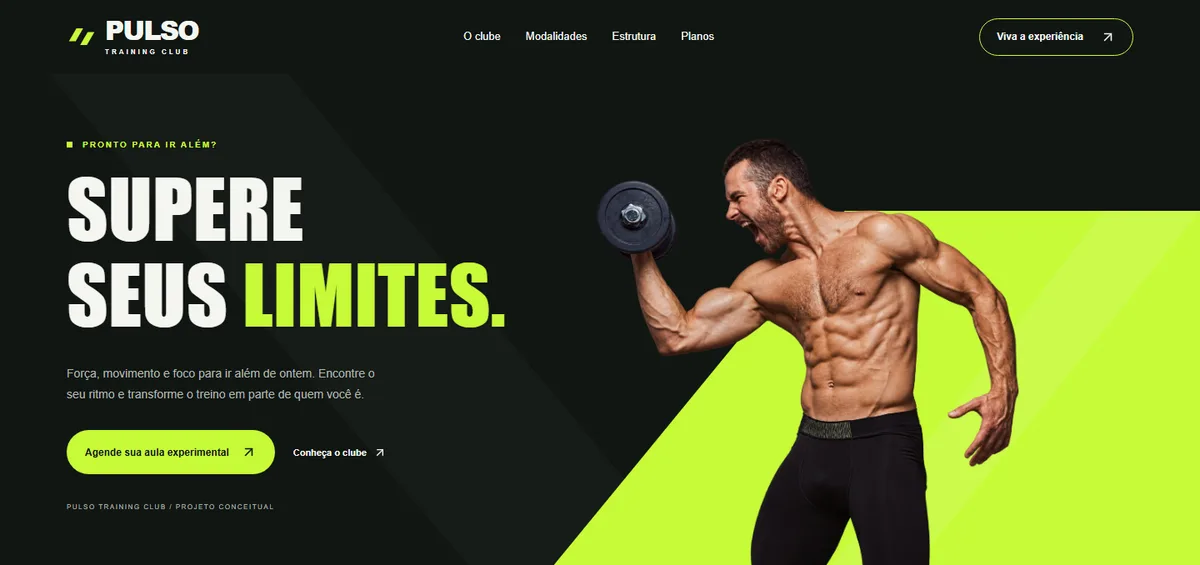
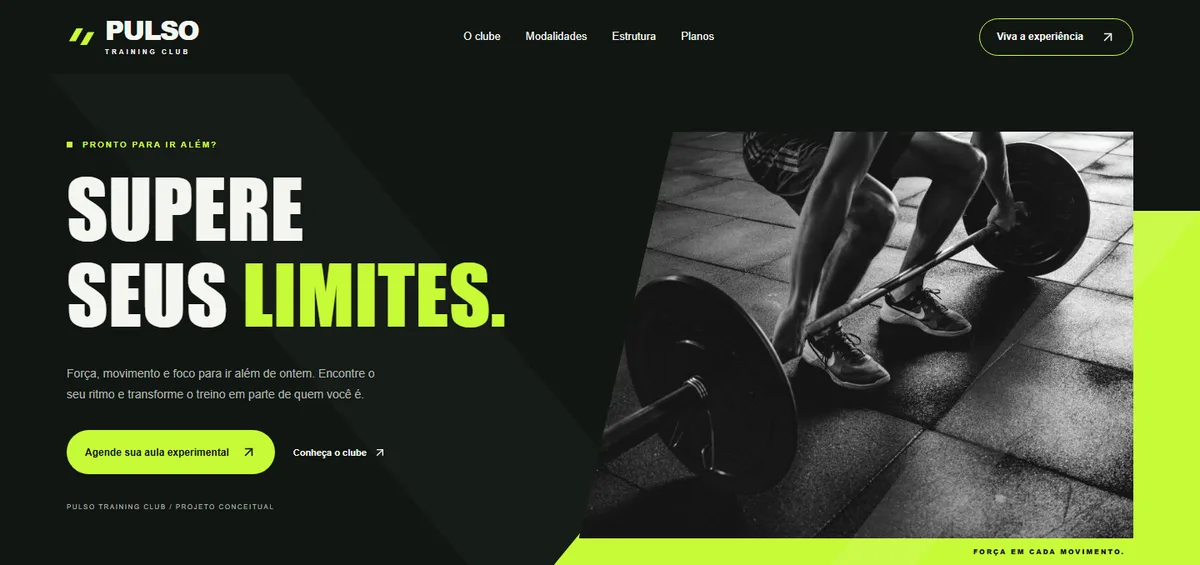
melhorias

Changed region(s): [[0.4625, 0.2106, 0.9558, 1.0]]

diff --git a/src/app/globals.css b/src/app/globals.css
@@ -88,8 +88,8 @@ h3 { font-size: 18px; letter-spacing: -.45px; font-weight: 550; }
 .portfolio-grid { display: grid; grid-template-columns: repeat(3, minmax(0, 1fr)); gap: 28px; }
 .portfolio-card { display: flex; flex-direction: column; min-width: 0; overflow: hidden; border: 1px solid #304563; border-radius: 12px; background: #111e35; transition: border-color .18s ease; }
 .portfolio-card:hover { border-color: #136ef8; }
-.portfolio-cover { aspect-ratio: 16 / 9; overflow: hidden; background: #101713; }
-.portfolio-cover img { display: block; width: 100%; height: 100%; object-fit: cover; }
+.portfolio-cover { aspect-ratio: 16 / 9; overflow: hidden; padding-inline: 3px; background: #101713; }
+.portfolio-cover img { display: block; width: 100%; height: 100%; object-fit: contain; }
 .portfolio-content { display: flex; flex: 1; flex-direction: column; align-items: start; padding: 24px; }
 .portfolio-category { color: #38bdf8; font-size: 11px; line-height: 1.6; }
 .portfolio-content h3 { margin-top: 10px; font-size: 22px; line-height: 1.3; }

diff --git a/src/lib/projects.ts b/src/lib/projects.ts
@@ -18,7 +18,7 @@ export const projects: readonly PortfolioProject[] = [
     description: "Landing page para academia fictícia, com identidade visual própria, modalidades, planos e galeria interativa.",
     cover: {
       src: "/images/portfolio/pulso.webp",
-      alt: "Página inicial do PULSO Training Club, com o título Supere seus limites e um atleta sobre fundo verde-lima.",
+      alt: "Página inicial do PULSO Training Club, com o título Supere seus limites e uma foto em preto e branco de um atleta levantando uma barra.",
       width: 1200,
       height: 565,
     },
